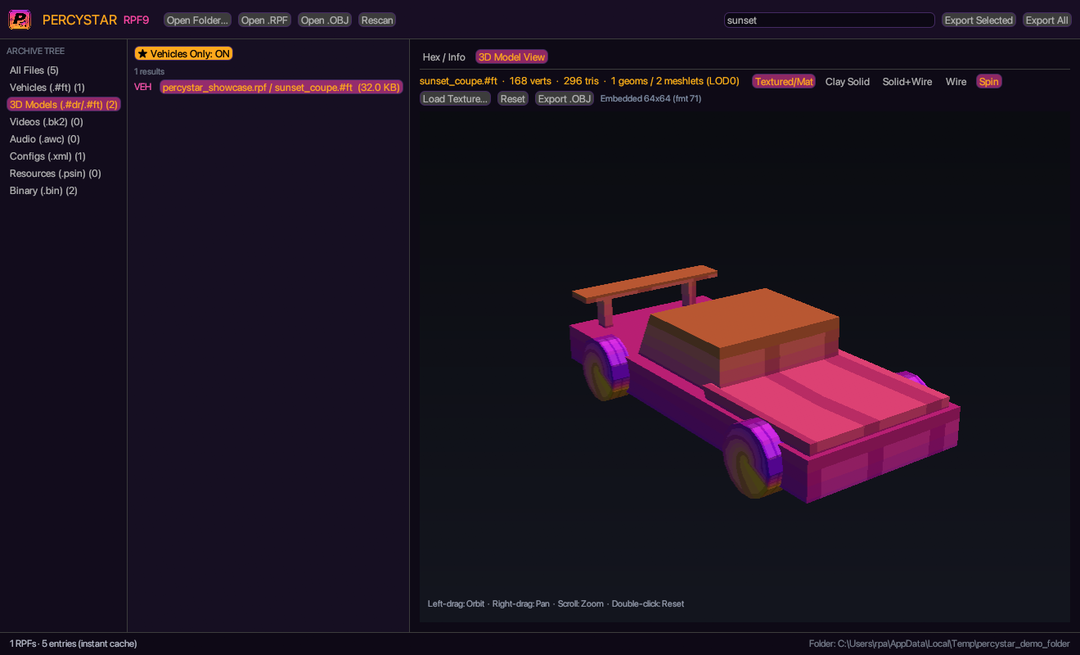
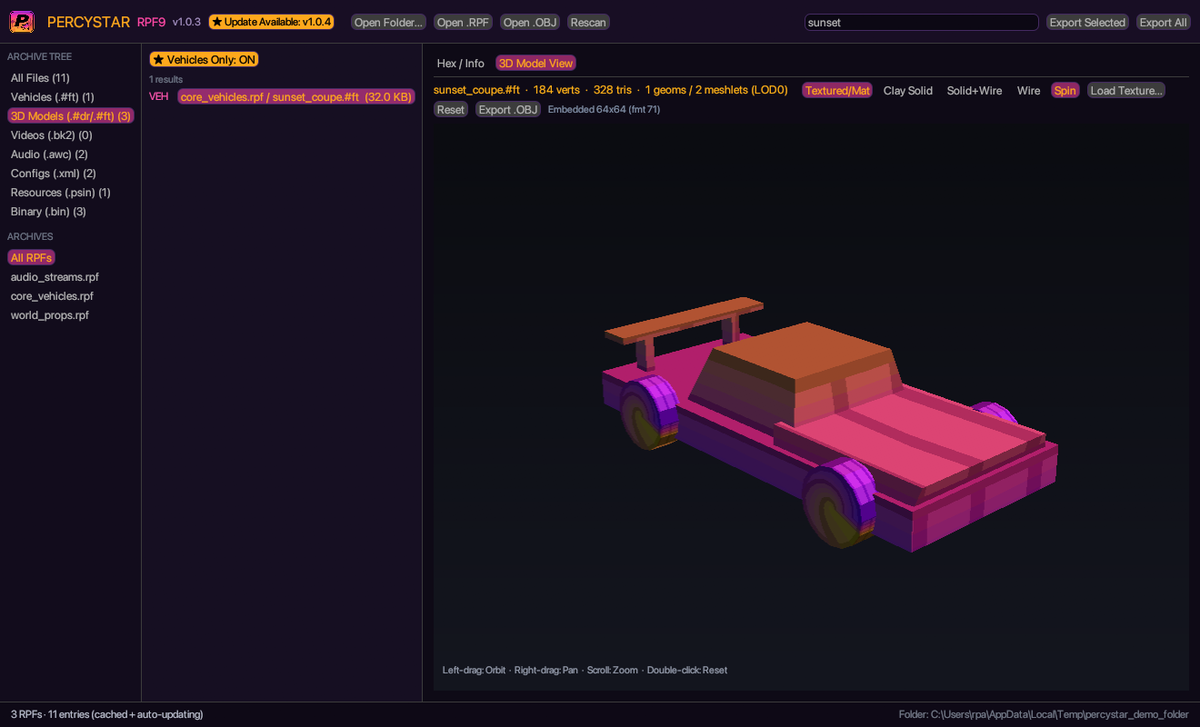
Add 30fps animated WebP feature showcases (overview, 3D modes, audio/PSIN/XML) to README

diff --git a/README.md b/README.md
@@ -23,16 +23,29 @@
 </p>
 
 <p align="center">
-  <img src="assets/demo.webp" alt="PercyStar Neon Sunset UI, Search & 3D Meshlet Viewer Demo" width="900" />
+  <img src="assets/demo_overview.webp" alt="PercyStar 30fps Showcase — Neon Sunset UI, Search, Vehicles Filter & In-App Updater" width="920" />
 </p>
 
 ---
 
-## Screenshots
+## Visual Showcase
 
+### RAGE 9 3D Meshlet Viewer (`Textured/Mat` · `Clay Solid` · `Solid+Wire` · `Wire`)
 <p align="center">
-  <img src="assets/preview.png" alt="PercyStar 3D Meshlet Viewer — Neon Sunset Theme" width="860" />
+  <img src="assets/demo_3d.webp" alt="PercyStar 3D Meshlet Viewer — Shading Modes & Smooth Orbit" width="900" />
 </p>
+
+### Pure-Rust Audio (`ADAT` Opus → WAV), `PSIN` Metadata & XML Inspector
+<p align="center">
+  <img src="assets/demo_inspector.webp" alt="PercyStar Pure-Rust Opus Audio, PSIN PSO Inspector & XML Viewer" width="900" />
+</p>
+
+<details>
+<summary>Static High-Res Screenshot (Neon Sunset v1.0.3)</summary>
+<p align="center">
+  <img src="assets/preview.png" alt="PercyStar 3D Meshlet Viewer — Neon Sunset Theme" width="900" />
+</p>
+</details>
 
 ---
 
@@ -65,9 +78,12 @@ PercyStar/
 ├── assets/
 │   ├── logo.png            # App & window icon
 │   ├── logo.ico            # Windows executable icon
-│   ├── demo.webp           # 60fps animated UI & 3D meshlet viewer demo
-│   └── preview.png         # Neon Sunset 3D viewer screenshot
+│   ├── demo_overview.webp  # 30fps Neon Sunset UI, search & updater showcase
+│   ├── demo_3d.webp        # 30fps 3D meshlet viewer shading modes showcase
+│   ├── demo_inspector.webp # 30fps XML / PSIN / ADAT Opus audio showcase
+│   └── preview.png         # High-res Neon Sunset screenshot
 ├── scripts/
+│   ├── build_macos.sh      # Universal macOS (.app / .zip) build helper
 │   ├── setup_deps.ps1      # Optional RAD Video Tools (binkplay.exe) setup
 │   ├── awc_extract.py      # Standalone CLI ADAT (.awc) Opus -> .wav helper
 │   └── rpf9_carve.py       # Standalone CLI RPF9 carver
